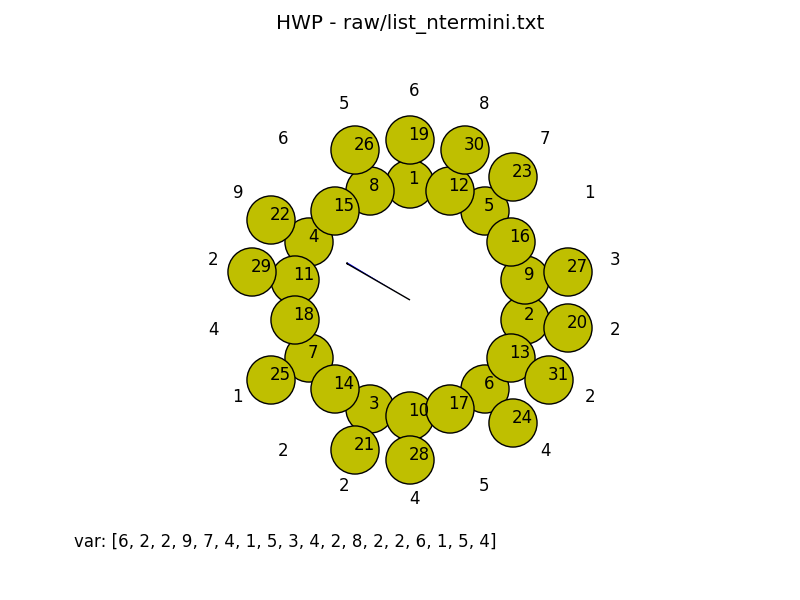
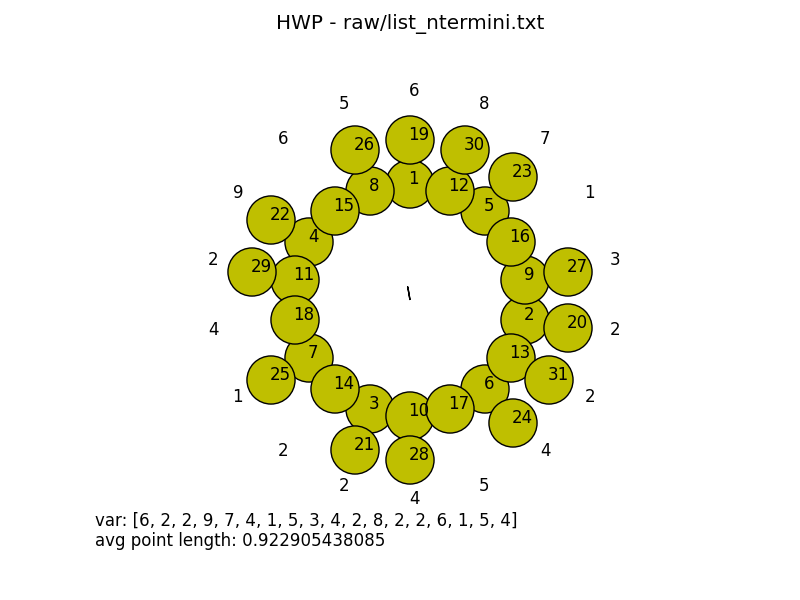
Add DIRECTION settings. Add AVG point calculation algorithm

diff --git a/src/core.py b/src/core.py
@@ -8,7 +8,7 @@
     todo: this
 """
 from __future__ import unicode_literals, print_function
-from config import ANGLE, NODES_IN_WHEEL, BEGIN_POSITION
+from config import ANGLE, NODES_IN_WHEEL, BEGIN_POSITION, DIRECTION
 import matplotlib.pyplot as plt
 import warnings
 import numpy as np
@@ -21,6 +21,33 @@ __author__ = '@egregors'
 
 class ChainLengthExeption(Exception):
     pass
+
+
+class Point(object):
+    def __init__(self, title=None, radius=None, angle=None, x=None, y=None):
+        self.title = title
+        self.radius = radius
+        self.angle = angle
+
+        self.x = x
+        self.y = y
+
+        if x is None and y is None: self.calc_xy()
+        if angle is None and radius is None: self.calc_ra()
+
+        super(Point, self).__init__()
+
+    def calc_xy(self):
+        self.x = self.radius * np.cos(self.angle)
+        self.y = self.radius * np.sin(self.angle)
+
+    def calc_ra(self):
+        self.radius = np.sqrt(self.x ** 2 + self.y ** 2)
+        self.angle = np.arctan2(self.y, self.x)
+
+    def __repr__(self):
+        return 'ttl: {}\nradius: {}\nangle: {}\nx: {}\ny: {}'.format(self.title, self.radius, self.angle,
+                                                                     self.x, self.y)
 
 
 class Protein(object):
@@ -109,8 +136,8 @@ class ProteinSequence(object):
                     radius += 3
 
                 radius_list.append(radius)
-                nodes.append(BEGIN_POSITION + ANGLE * position * -1)
-                plt.text(BEGIN_POSITION + ANGLE * position * -1, radius, position + 1)
+                nodes.append(BEGIN_POSITION + ANGLE * position * DIRECTION)
+                plt.text(BEGIN_POSITION + ANGLE * position * DIRECTION, radius, position + 1)
 
             wheels_in_seq = int(len(self.variability) / NODES_IN_WHEEL)
 
@@ -125,25 +152,42 @@ class ProteinSequence(object):
                         variability_wheel[idx] += tail[idx]
 
             for position, node in enumerate(variability_wheel):
-                plt.text(BEGIN_POSITION + ANGLE * position * -1, radius + 3, node)
+                plt.text(BEGIN_POSITION + ANGLE * position * DIRECTION, radius + 3, node)
 
             print('[{}]: AVG variability vector = {}'.format(__name__, variability_wheel))
 
             plt.scatter(x=nodes, y=radius_list, s=area, c=color)
 
-            M = variability_wheel.index(max(variability_wheel))
+            # Translation to different coordinate system
+            points = []
+            for idx, node in enumerate(variability_wheel):
+                points.append(Point(idx, node, ANGLE * idx))
+
+            # Calc AVG point for all dots
+            avg_x = sum([point.x for point in points]) / len(points)
+            avg_y = sum([point.y for point in points]) / len(points)
+
+            # Translation back to polar coordinate system
+
+            variability_vector = Point(title='AVG', x=avg_x, y=avg_y)
+            print('* * *')
+            print('[{}]: AVG variability point = \n{}'.format(__name__, variability_vector))
+
 
             # TODO: Calc arrow
             plt.arrow(
                 0, 0,
-                BEGIN_POSITION + M * ANGLE * -1,  # angle
-                5,  # length
+                BEGIN_POSITION + variability_vector.radius * variability_vector.angle * DIRECTION,  # angle
+                variability_vector.radius,  # length
             )
 
             desc = '''
-            var: {variability}
-            '''.format(variability=variability_wheel)
+                var: {variability}
+                avg point length: {radius}
+                '''.format(variability=variability_wheel, radius=variability_vector.radius)
             plt.text(19 * np.pi / 16, 33, desc)
 
             plt.savefig(self.save_to)
-            print('[{}]: Save image into {}'.format(__name__, self.save_to))
+
+            print('* * *')
+            print('[{}]: Done'.format(__name__, variability_vector))

diff --git a/config.py b/config.py
@@ -13,9 +13,12 @@
 
     "BEGIN_POSITION" — position of first amino-acid.
     By default - pi/2
+
+    "DIRECTION" – clockwise: -1, else 1
 """
 import numpy as np
 
 ANGLE = np.pi * 5 / 9 # 100 degrees
 NODES_IN_WHEEL = 18 # for 100 degrees ti's 18, yah
 BEGIN_POSITION = np.pi / 2
+DIRECTION = -1
